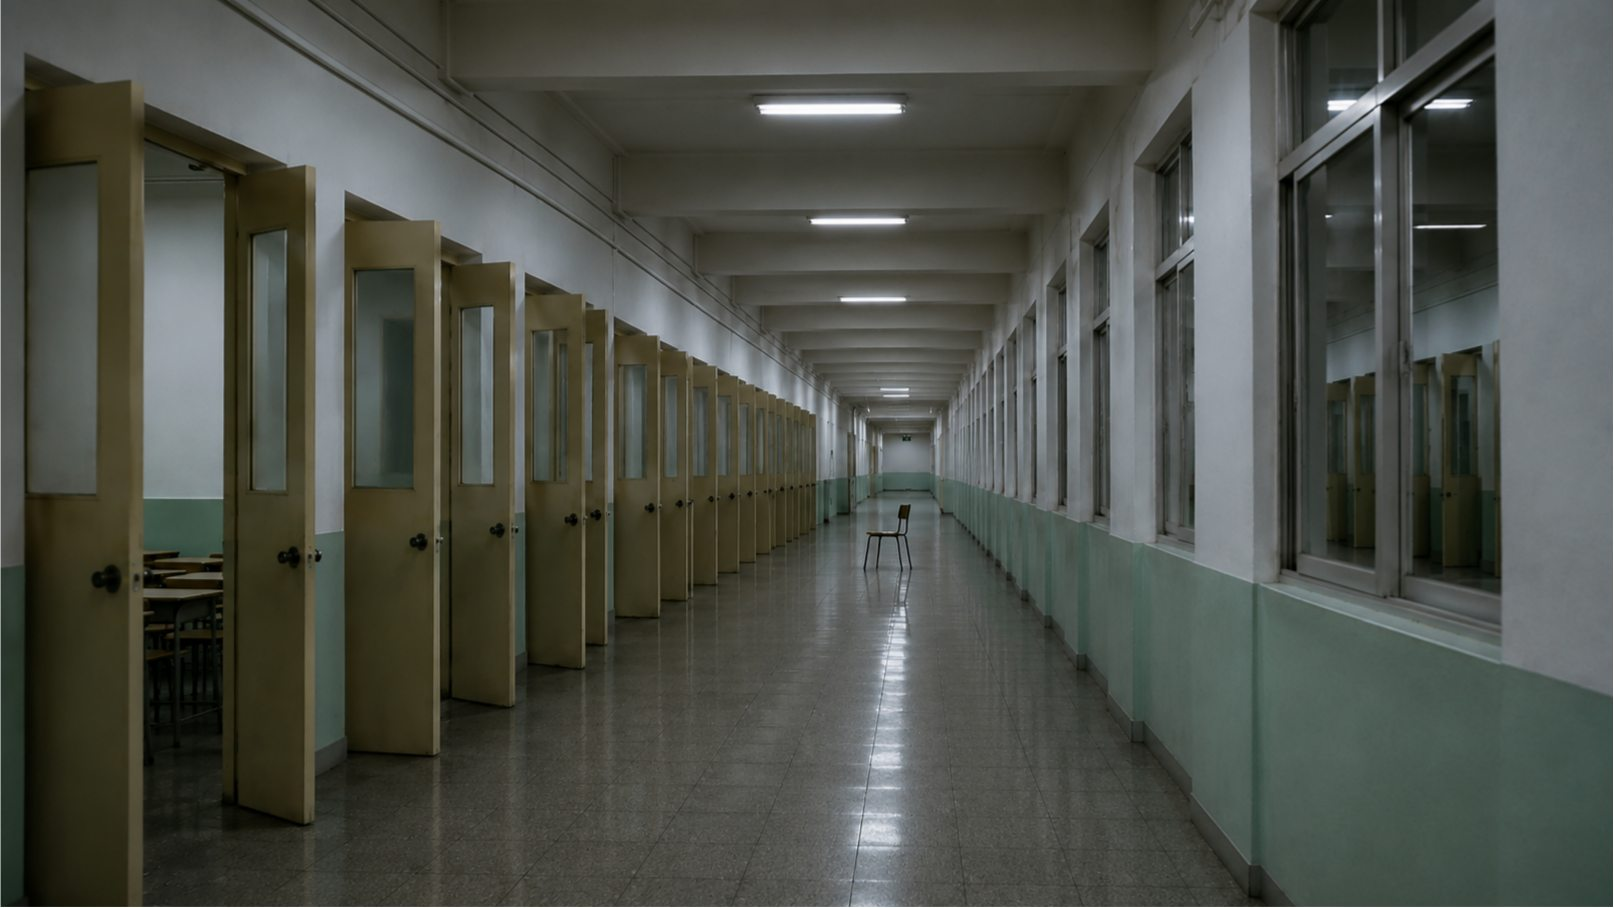
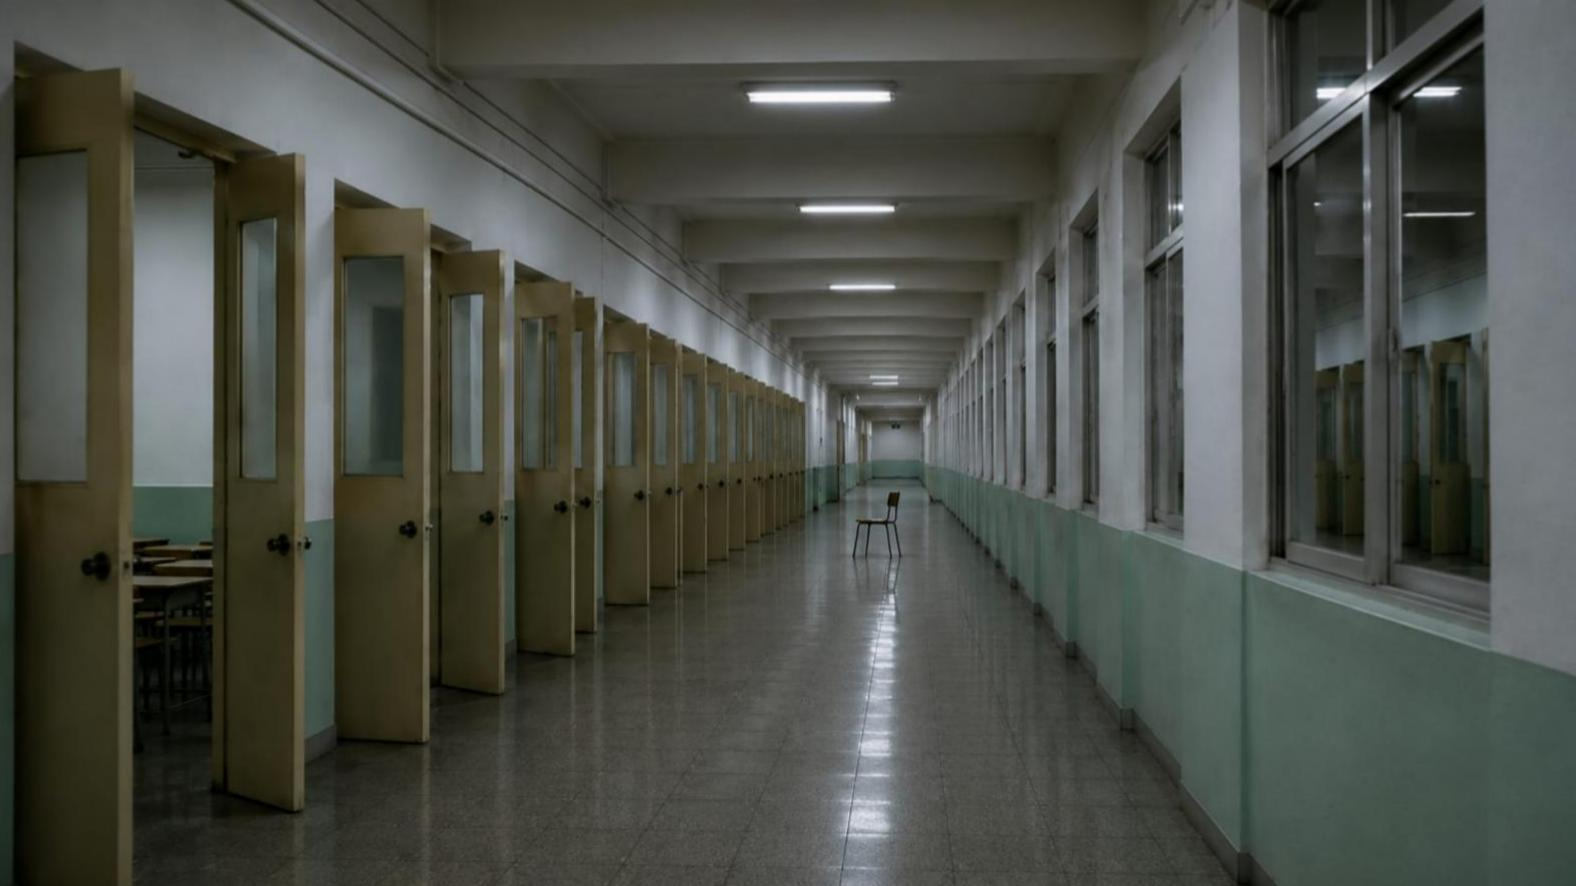
Update game copy and image assets

diff --git a/src/pages/InternalForum.jsx b/src/pages/InternalForum.jsx
@@ -212,7 +212,7 @@ export default function InternalForum() {
           currentAccount
         )
       ) {
-        setInnerForumMessage(`姓名不匹配：当前身份 ${INNER_FORUM_CURRENT_ID} 的姓名校验未通过。`);
+        setInnerForumMessage('姓名或密码错误。');
         return;
       }
 
@@ -224,7 +224,7 @@ export default function InternalForum() {
           currentAccount
         )
       ) {
-        setInnerForumMessage(`密码不匹配：当前身份 ${INNER_FORUM_CURRENT_ID} 的密码校验未通过。`);
+        setInnerForumMessage('姓名或密码错误。');
         return;
       }
 
@@ -249,7 +249,7 @@ export default function InternalForum() {
         return;
       }
 
-      setInnerForumMessage('登录校验未通过。');
+      setInnerForumMessage('姓名或密码错误。');
     } catch (error) {
       setInnerForumMessage('登录验证失败，请稍后再试。');
     } finally {
@@ -270,7 +270,7 @@ export default function InternalForum() {
     const targetAccount = INNER_FORUM_ACCOUNTS[normalizedId];
 
     if (!targetAccount) {
-      setSwitchAccountMessage(`登陆ID不存在：${normalizedId}`);
+      setSwitchAccountMessage('登陆信息有误。');
       return;
     }
 
@@ -290,7 +290,7 @@ export default function InternalForum() {
           targetAccount
         )
       ) {
-        setSwitchAccountMessage(`姓名不匹配：${normalizedId} 的姓名校验未通过。`);
+        setSwitchAccountMessage('登陆信息有误。');
         return;
       }
 
@@ -302,7 +302,7 @@ export default function InternalForum() {
           targetAccount
         )
       ) {
-        setSwitchAccountMessage(`密码不匹配：${normalizedId} 的密码校验未通过。`);
+        setSwitchAccountMessage('登陆信息有误。');
         return;
       }
 
@@ -324,7 +324,7 @@ export default function InternalForum() {
         return;
       }
 
-      setSwitchAccountMessage('登录校验未通过。');
+      setSwitchAccountMessage('登陆信息有误。');
     } catch (error) {
       setSwitchAccountMessage('登录验证失败，请稍后再试。');
     } finally {

diff --git a/src/pages/DongyangOldStoriesBlog.jsx b/src/pages/DongyangOldStoriesBlog.jsx
@@ -72,7 +72,7 @@ const searchItems = [
     id: 'dongyang-strange-cults-study',
     type: 'image',
     title: '（图片）',
-    paths: ['/images/东阳异崇考1.png', '/images/东阳异崇考2.png'],
+    paths: ['/images/东阳异崇考1.jpg', '/images/东阳异崇考2.jpg'],
     downloadPath: '/images/复原译文.txt',
     downloadName: '复原译文.txt',
     date: '东阳异崇考',
@@ -83,7 +83,7 @@ const searchItems = [
     id: 'hidden-name-record',
     type: 'image',
     title: '（图片）',
-    path: '/images/幽名别录.png',
+    path: '/images/幽名别录.jpg',
     date: '幽名别录',
     summary: '',
     keywords: ['刘义庆'],

diff --git a/src/App.jsx b/src/App.jsx
@@ -57,7 +57,7 @@ const pageRoutes = [
   { path: '/p/b12e8f40a6', component: Forum, pageNumber: '04' },
   { path: '/p/d3a90b7c2e', component: ForumRulesPost, pageNumber: '07' },
   { path: '/p/7c1e4a9f08', component: PostDetail, pageNumber: '08', props: { postId: 'holiday-flower' } },
-  { path: '/p/b80a4e6c1f', component: InternalForumBulliedHelpPost, pageNumber: '09', progressTheme: 'innerLight' },
+  { path: '/p/b80a4e6c1f', component: InternalForumBulliedHelpPost, pageNumber: '09', progressTheme: 'dark' },
   { path: '/p/2f8d6c0b91', component: PostDetail, pageNumber: '10', props: { postId: 'depression-memory' } },
   { path: '/p/8a04e6d3f2', component: PostDetail, pageNumber: '11', props: { postId: 'moral-kidnapping-rant' } },
   { path: '/p/91b7c2e0a4', component: PostDetail, pageNumber: '12', props: { postId: 'career-empty' } },

diff --git a/src/components/MingchuanFloatingAds.jsx b/src/components/MingchuanFloatingAds.jsx
@@ -156,7 +156,7 @@ function NameForm({
     }
 
     if (!looksLikeName(name)) {
-      setMessage('请输入看起来像真实姓名的内容。');
+      setMessage('姓名格式不正确。');
       return;
     }
 

diff --git a/src/pages/InternalForumRitualEntry.jsx b/src/pages/InternalForumRitualEntry.jsx
@@ -36,7 +36,7 @@ export default function InternalForumRitualEntry() {
     event.preventDefault();
     const normalized = gardenerName.trim().replace(/\s+/g, '');
     if (normalized !== '顾意') {
-      setNoticeText('身份校验失败，请确认是否输入园丁001的真名。');
+      setNoticeText('身份校验失败');
       return;
     }
 